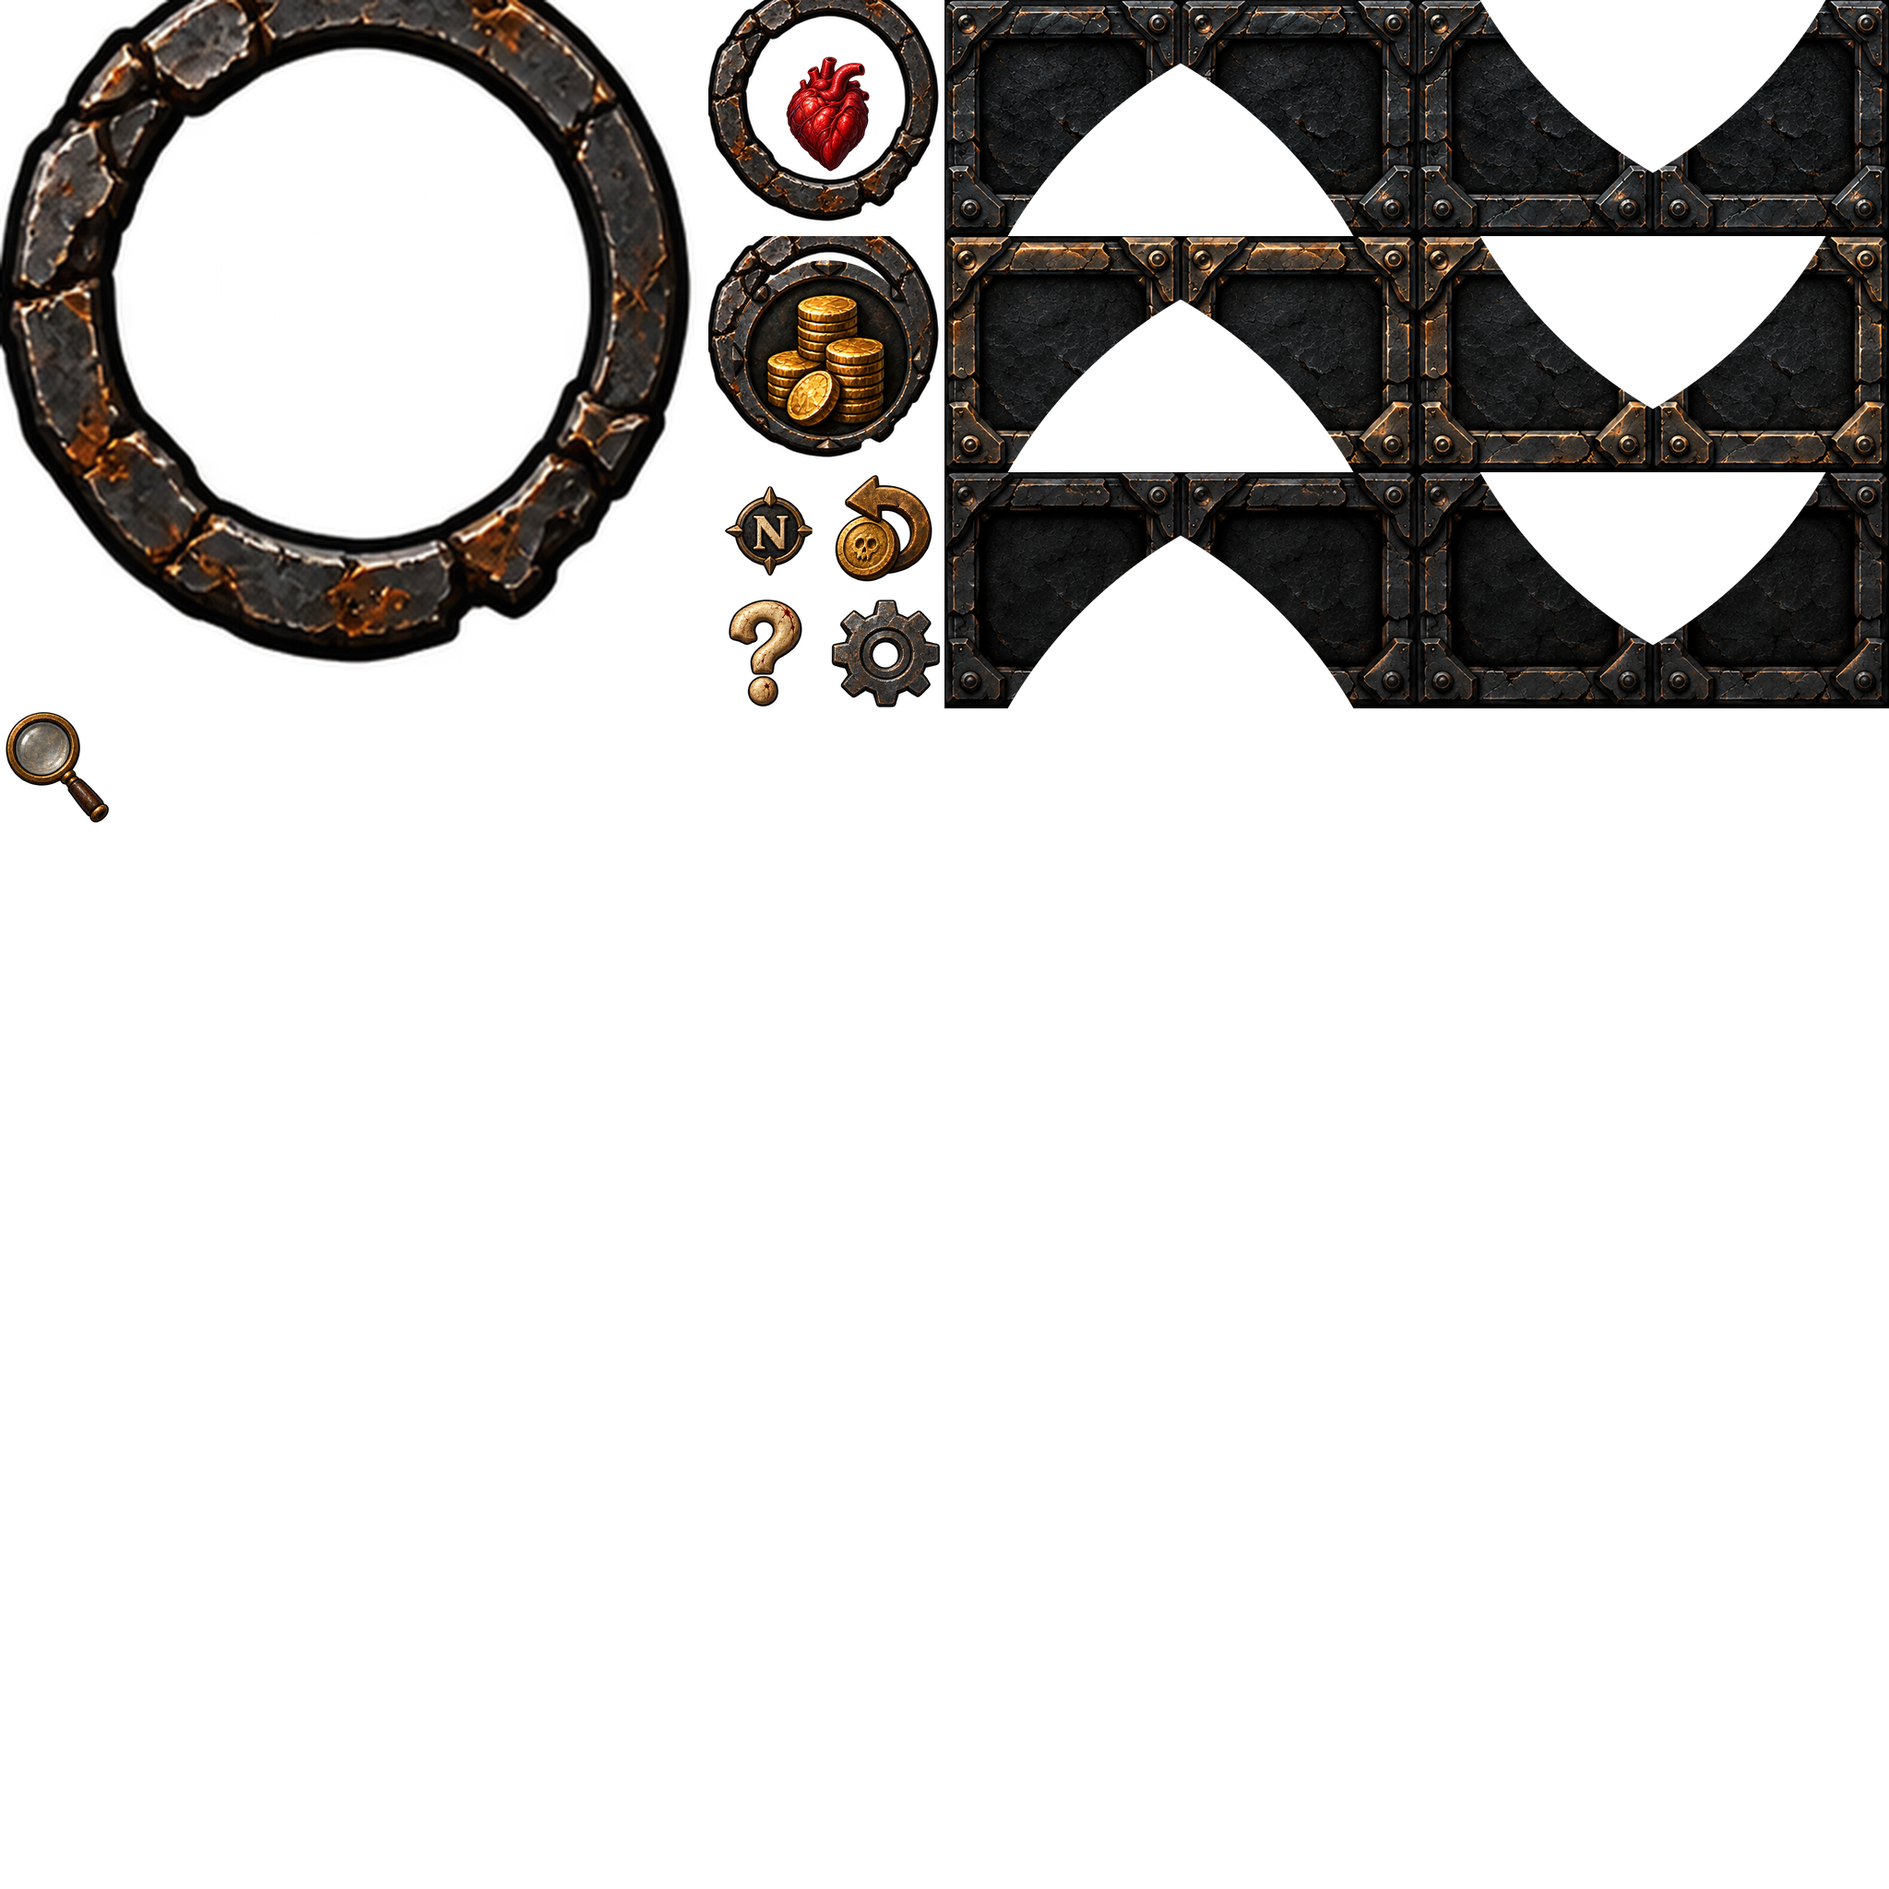
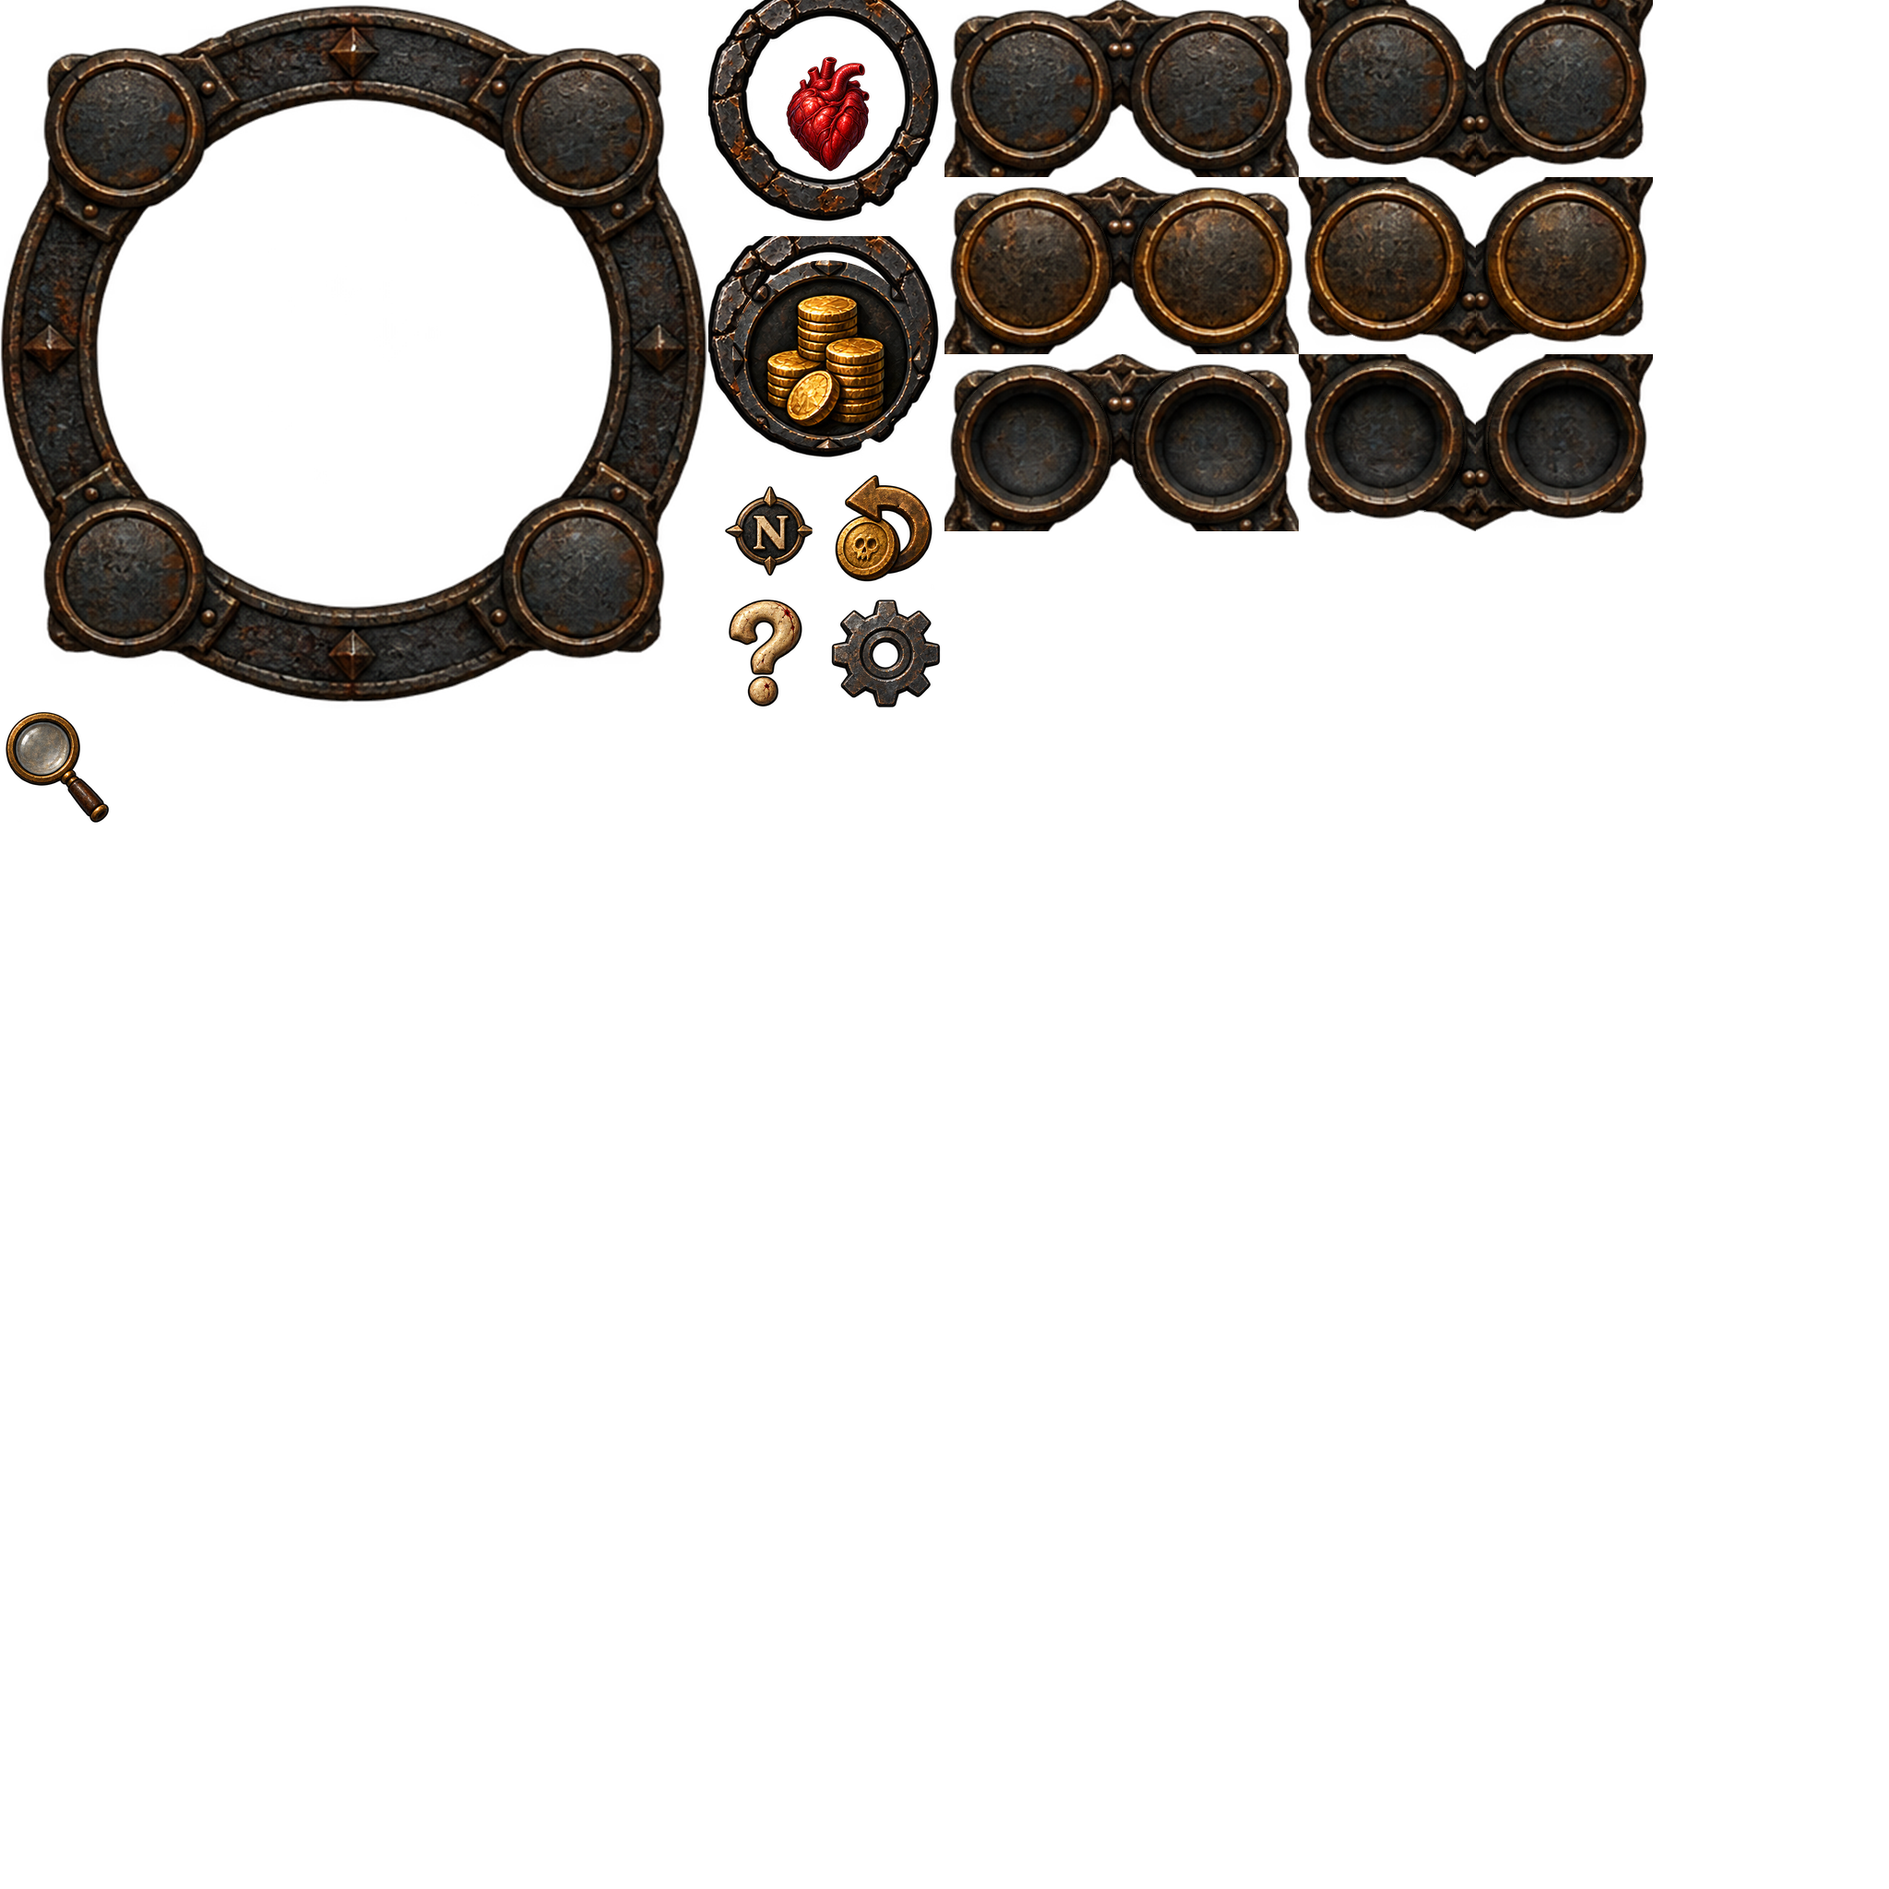
Integrate minimap controls into the painted iron ring
Paint integrated plates and interaction states, align their icons and hit targets, and scale them with the minimap while retaining the existing controls.

Changed region(s): [[0.5, 0.0, 1.0, 0.375], [0.0, 0.0, 0.375, 0.375]]

diff --git a/source/tests/check_navigation_style_textures.py b/source/tests/check_navigation_style_textures.py
@@ -16,7 +16,9 @@ dumps the textures and checks the geometry that the layout and the map renderer 
 
 The same native probe also decodes the painted runtime atlas with Ogre and copies its twenty
 registered sprites with the production helper. Those copies are checked against the actual PNG
-rectangles, including all corner cutouts and the distinct painted interaction states. The older
+rectangles, including the integrated ring patches and distinct painted interaction states.
+With --painted-only, checks the actual painted patches and minimap-relative layout without
+compiling or running the native probe; the default still runs every native regression. The older
 procedural assertions remain a separate regression check, not a specification of painted colours.
 
 With --preview DIRECTORY it also writes enlarged PNGs (needs PIL): every texture, and a mock-up of
@@ -26,6 +28,7 @@ from pathlib import Path
 import argparse
 import math
 import os
+import re
 import subprocess
 import tempfile
 import xml.etree.ElementTree as ET
@@ -34,6 +37,7 @@ from PIL import Image
 
 parser = argparse.ArgumentParser(description=__doc__)
 parser.add_argument('--preview', help='directory for enlarged preview PNGs')
+parser.add_argument('--painted-only', action='store_true', help='check integrated painting and layout without compiling the native probe')
 args = parser.parse_args()
 repo = Path(__file__).resolve().parents[2]
 source = (repo / 'source/render/Gui.cpp').read_text()
@@ -127,6 +131,7 @@ checks = 0
 failures = 0
 
 
+# Record one navigation regression assertion.
 def check(ok, why):
     global checks, failures
     checks += 1
@@ -149,6 +154,42 @@ def pixel(data, size, x, y):
 def brightness(p):
     return p[0] + p[1] + p[2]
 
+
+# Verify the painted ring and the actual minimap-relative layout before any native compilation.
+layout = ET.parse(repo / 'gui/ModeGame.layout').getroot()
+entries = {n.get('name'): n.attrib for n in ET.parse(repo / 'gui/ODNavigation.imageset').getroot().findall('Image')}
+with Image.open(repo / 'gui/ODNavigation.png') as atlas_image:
+    atlas = atlas_image.convert('RGBA')
+    ring = atlas.crop((0, 0, 768, 768))
+    check(ring.getpixel((384, 384))[3] == 0, 'map opening remains transparent')
+    for corner, name in enumerate(('QueryButton', 'SellButton', 'OptionsButton', 'MiniMapZoomButton')):
+        button = layout.find('.//Window[@name="' + name + '"]')
+        relative = button.find('UserString[@name="MiniMapArea"]').get('value')
+        dimensions = [tuple(map(float, pair)) for pair in re.findall(r'\{([\d.]+),([\d.]+)\}', relative)]
+        x, y = (535 if corner & 1 else 41), (535 if corner & 2 else 41)
+        check(all(offset == 0 for scale, offset in dimensions), name + ' has no fixed minimap-relative offsets')
+        expected = (x / 768, y / 768, (x + 192) / 768, (y + 192) / 768)
+        check(all(abs(d[0] - value) < 1e-8 for d, value in zip(dimensions, expected)),
+              name + ' aligns with its ring patch at equal diagonal angles')
+        check(button.find('Property[@name="CornerIconArea"]').get('value') == '{{0.25,0},{0.25,0},{0.75,0},{0.75,0}}',
+              name + ' centres its icon on the plate')
+        states = []
+        for state, suffix in enumerate(('', 'Hover', 'Pressed')):
+            entry = entries['MiniMapCorner' + str(corner) + suffix]
+            rect = tuple(int(entry[key]) for key in ('xPos', 'yPos', 'width', 'height'))
+            check(rect == (1024 + corner * 192, state * 192, 192, 192), name + suffix + ' matches runtime source coordinates')
+            left, top, width, height = rect
+            patch = atlas.crop((left, top, left + width, top + height))
+            states.append(patch.tobytes())
+            check(patch.getpixel((96, 96))[3] == 255, name + suffix + ' has an opaque icon seat')
+        check(states[0] == ring.crop((x, y, x + 192, y + 192)).tobytes(), name + ' is an exact part of the single ring painting')
+        check(len(set(states)) == 3, name + ' has three distinct painted states')
+check('layoutMiniMapButtons(gameSheet->second);' in source and 'width * area.d_min.d_x.d_scale' in source,
+      'production scaling applies minimap-relative layout')
+check('return x * x + y * y <= 1.0f;' in function('    bool isHit('), 'integrated plate centres accept clicks')
+if args.painted_only:
+    print('PAINTED CHECKS=%d FAILURES=%d (native probe not run)' % (checks, failures))
+    raise SystemExit(1 if failures else 0)
 
 with tempfile.TemporaryDirectory(prefix='odp-navigation-style-') as directory:
     work = Path(directory)
@@ -177,19 +218,11 @@ with tempfile.TemporaryDirectory(prefix='odp-navigation-style-') as directory:
             check(any(data[i + 3] for i in range(0, len(data), 4)), name + ' has visible painted content')
             painted[name] = (width, data)
     for corner in range(4):
-        states = []
-        for suffix in ('', 'Hover', 'Pressed'):
-            name = 'MiniMapCorner' + str(corner) + suffix
-            size, data = painted[name]
-            states.append(data)
-            outside_x = size // 4 if not corner & 1 else size - 1 - size // 4
-            outside_y = size // 4 if not corner & 2 else size - 1 - size // 4
-            bite_x = size - 16 if not corner & 1 else 16
-            bite_y = size - 16 if not corner & 2 else 16
-            check(pixel(data, size, outside_x, outside_y)[3] == 255, name + ' keeps its outer plate opaque')
-            check(pixel(data, size, bite_x, bite_y)[3] == 0, name + ' preserves the minimap circle cutout')
-        check(states[0] != states[1] and states[0] != states[2] and states[1] != states[2],
-              'painted corner %d has distinct resting, hovered and pressed states' % corner)
+        states = [painted['MiniMapCorner' + str(corner) + suffix][1] for suffix in ('', 'Hover', 'Pressed')]
+        size = painted['MiniMapCorner' + str(corner)][0]
+        check(pixel(states[0], size, size // 2, size // 2)[3] == 255,
+              'integrated plate %d has an opaque icon seat' % corner)
+        check(len(set(states)) == 3, 'painted corner %d has distinct resting, hovered and pressed states' % corner)
 
     # Legacy procedural helpers retain every original assertion independently of the painted runtime sprites.
     rim_size, north_size, plate_size, symbol_size = 384, 64, 128, 64

diff --git a/source/render/Gui.cpp b/source/render/Gui.cpp
@@ -74,7 +74,7 @@ static const float DEFAULT_IMAGE_PIXEL_DENSITY = 1.0f;
 //! Painted navigation atlas coordinates, in doubled source pixels; existing layout sizes stay unchanged.
 static const char* const PAINTED_NAVIGATION_ATLAS = "ODNavigation.png";
 static const int PAINTED_BADGE_SIZE = 256;
-static const int PAINTED_CORNER_SIZE = 256;
+static const int PAINTED_CORNER_SIZE = 192;
 static const int PAINTED_CORNER_X = 1024;
 static const int PAINTED_RIM_SIZE = 768;
 static const int PAINTED_SYMBOL_SIZE = 128;
@@ -193,27 +193,47 @@ void createHandFeedbackImage()
     image.setArea(CEGUI::Rectf(0, 0, size, size));
 }
 
-//! Round button that fills a corner of the minimap frame: it only reacts outside the round map.
+//! \brief Hits the round integrated plate without intercepting the surrounding minimap.
 class MiniMapCornerButton : public CEGUI::PushButton
 {
 public:
     static const CEGUI::String WidgetTypeName;
+    //! \brief Constructs an integrated minimap plate with the existing button events.
     MiniMapCornerButton(const CEGUI::String& type, const CEGUI::String& name) : CEGUI::PushButton(type, name) {}
 
+    //! \brief Accepts clicks on the circular plate, including its part inside the map circle.
     bool isHit(const CEGUI::Vector2f& position, bool allowDisabled = false) const override
     {
         if(!CEGUI::PushButton::isHit(position, allowDisabled))
             return false;
-        if(getParent() == nullptr || !getParent()->isChild("MiniMap"))
-            return true;
-        // Use the actual map bounds: pixel rounding can differ from this button.
-        const CEGUI::Rectf& map = getParent()->getChild("MiniMap")->getUnclippedOuterRect().get();
-        const float x = (position.d_x - map.left() - map.getWidth() * 0.5f) / (map.getWidth() * 0.5f);
-        const float y = (position.d_y - map.top() - map.getHeight() * 0.5f) / (map.getHeight() * 0.5f);
-        return x * x + y * y >= 1.0f;
+        // Use the actual plate bounds so rounding follows the displayed image.
+        const CEGUI::Rectf& plate = getUnclippedOuterRect().get();
+        const float x = (position.d_x - plate.left() - plate.getWidth() * 0.5f) / (plate.getWidth() * 0.4375f);
+        const float y = (position.d_y - plate.top() - plate.getHeight() * 0.5f) / (plate.getHeight() * 0.4375f);
+        return x * x + y * y <= 1.0f;
     }
 };
 const CEGUI::String MiniMapCornerButton::WidgetTypeName("OD/MiniMapCornerBase");
+
+//! \brief Positions and sizes the four integrated plates as fractions of the current minimap.
+void layoutMiniMapButtons(CEGUI::Window* root)
+{
+    if(!root->isChild("MiniMap"))
+        return;
+    const CEGUI::URect map = root->getChild("MiniMap")->getArea();
+    const CEGUI::UDim width = map.d_max.d_x - map.d_min.d_x;
+    const CEGUI::UDim height = map.d_max.d_y - map.d_min.d_y;
+    const char* names[] = {"QueryButton", "SellButton", "OptionsButton", "MiniMapZoomButton"};
+    for(const char* name : names)
+    {
+        CEGUI::Window* button = root->getChild(name);
+        const CEGUI::URect area = CEGUI::PropertyHelper<CEGUI::URect>::fromString(button->getUserString("MiniMapArea"));
+        button->setArea(CEGUI::URect(map.d_min.d_x + width * area.d_min.d_x.d_scale,
+            map.d_min.d_y + height * area.d_min.d_y.d_scale,
+            map.d_min.d_x + width * area.d_max.d_x.d_scale,
+            map.d_min.d_y + height * area.d_max.d_y.d_scale));
+    }
+}
 
 const int BADGE_SIZE = 128;
 
@@ -2203,7 +2223,7 @@ bool Gui::onWindowDestroyed(const CEGUI::EventArgs& e)
     return true;
 }
 
-//! \brief Rescales registered widgets and reflows their fitted profile documents.
+//! \brief Rescales registered widgets, aligns minimap plates and reflows fitted profile documents.
 void Gui::applyScale(const CEGUI::Sizef& displaySize)
 {
     const float resolutionScale = std::min(displaySize.d_width / LAYOUT_DESIGN_WIDTH,
@@ -2219,6 +2239,7 @@ void Gui::applyScale(const CEGUI::Sizef& displaySize)
     if(gameSheet != mSheets.end())
     {
         arrangeActionButtonPanels(gameSheet->second);
+        layoutMiniMapButtons(gameSheet->second);
     }
 
     for(const std::pair<CEGUI::Window* const, WindowScaleData>& scaledWindow : mScaledWindows)

diff --git a/scripts/gui/build_icon_atlas.py b/scripts/gui/build_icon_atlas.py
@@ -97,7 +97,7 @@ def write_imageset(path, imagefile, name, entries):
     ET.ElementTree(root).write(path, encoding="utf-8", xml_declaration=True)
 
 
-# Rebuild original grid slots and explicit painted sources, retaining the existing navigation atlas.
+# Rebuild original grid slots and painted sources, retaining the integrated navigation ring and states.
 def main():
     slots = json.loads((SOURCE / "slots.json").read_text(encoding="utf-8"))
     sheets = [Image.open(SOURCE / f"icons-{i}.png").convert("RGBA") for i in range(1, 8)]
@@ -136,7 +136,9 @@ def main():
     navigation = Image.new("RGBA", (2048, 2048))
     ring = Image.open(SKIN / "glyph-3-3.png").convert("RGBA")
     ring = ring.crop(ring.getbbox())
-    sprites = {"MiniMapRim": ring.resize((768, 768), Image.Resampling.LANCZOS)}
+    # Preserve the integrated ring painting and its matching interaction patches.
+    painted_navigation = Image.open(ROOT / "gui/ODNavigation.png").convert("RGBA")
+    sprites = {"MiniMapRim": painted_navigation.crop((0, 0, 768, 768))}
     source_names = ("ManaBadge", "GoldBadge", "NavHelp", "NavSell", "NavOptions", "MapZoom", "MiniMapNorth")
     for index, name in enumerate(source_names):
         source = source_cell(sheets[6], index + 3)
@@ -153,8 +155,9 @@ def main():
     for corner in range(4):
         for state, suffix in enumerate(("", "Hover", "Pressed")):
             name = f"MiniMapCorner{corner}{suffix}"
-            NAVIGATION_RECTS[name] = (1024 + corner * 256, state * 256, 256, 256)
-            sprites[name] = corner_plate(corner, state)
+            NAVIGATION_RECTS[name] = (1024 + corner * 192, state * 192, 192, 192)
+            x, y, width, height = NAVIGATION_RECTS[name]
+            sprites[name] = painted_navigation.crop((x, y, x + width, y + height))
     nav_entries = []
     for name, sprite in sprites.items():
         x, y, width, height = NAVIGATION_RECTS[name]
